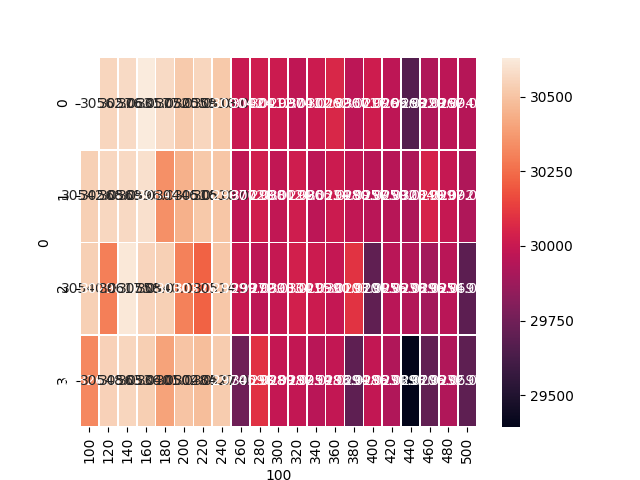
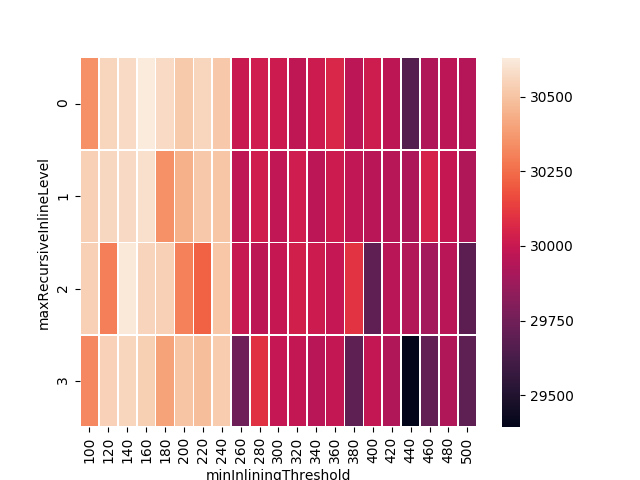
small fixes

diff --git a/scenarios/old/1-singleRun/2-inlining-threshold-recursive/2018-06-17_17-25-06/definition.py b/scenarios/old/1-singleRun/2-inlining-threshold-recursive/2018-06-17_17-25-06/definition.py
@@ -1,0 +1,91 @@
+name = "SingleRun-1-Inlining-threshold-recursive"
+
+# test different inlining sizes to search for the optimal value
+
+execution_strategy = {
+    "ignore_first_n_results": 0,
+    "sample_size": 1,
+    "type": "step_explorer",
+    "knobs": {
+        "minInliningThreshold": ([100, 500], 20),
+        "maxRecursiveInlineLevel": ([0, 3], 1)
+    }
+}
+
+def evaluator(resultState, wf):
+    return resultState["passedTime"]
+
+
+def state_initializer(state, wf):
+    state["passedTime"] = 999999999
+    return state
+
+
+def primary_data_reducer(state, newData, wf):
+    if (state["passedTime"] > newData["passedTime"]):
+        state["passedTime"] = newData["passedTime"]
+    return state
+
+
+
+currentConfiguration = {
+    "scenarioIdentifier": "SingleRun",
+    "scenarioCommand": " -t 1 -n 1 ",
+    "scalaBenchTest": "sunflow",
+    "scalaBenchSize": "default",
+    "javaDir": "./graalvm/bin/java",
+    "scalaBenchFile": "./scalabench.jar",
+    "debugEnabled": 0,
+    "codeCacheSize": "2G",
+    "heapSize": "2G",
+    "graalCompilerEnabled": 0,
+    "graalBootstrapEnabled": 0,
+    "compileHugeMethodsEnabled": 0,
+    "aggressiveOptEnabled": 0,
+    "codeFlushingEnabled": 1,
+    "counterDecayEnabled": 1,
+    "tieredCompilationEnabled": 1,  #
+    "backgroundCompilationEnabled": 0,  # default is on, but introduces multi-threading variance
+    "loopMaxUnroll": 16,  # 10-20
+    "loopMinUnroll": 4,  # 2-10
+    "loopUnrollLimit": 60,  # 40-80
+    "minInliningThreshold": 250,  # Minimum invocation count a method needs to have to be inlined
+    "inlineSmallCode": 2000,  # 500-5000
+    "maxInlineLevel": 9,  # 5-15 Maximum number of nested calls that are inlined
+    "maxInlineSize": 35,  # 10-150 Maximum bytecode size of a method to be inlined
+    "freqInlineSize": 325,  # 200-500
+    "maxRecursiveInlineLevel": 1,  # 0-3
+    "compileThreshold": 10000,  # 2000-50000
+    "onStackReplacePercentage": 933,  # 144-993  # method invocations (percentage of CompileThreshold) before compiling
+    "tier4BackEdgeThreshold": 40000,  #
+    "tier4CompileThreshold": 15000,  # 5000-50000
+    "tier4InvocationThreshold": 5000,  #
+    "tier4MinInvocationThreshold": 600,  #
+    "tier3BackEdgeThreshold": 60000,  #
+    "tier3CompileThreshold": 2000,  # 5000-50000
+    "tier3InvocationThreshold": 200,  #
+    "tier3MinInvocationThreshold": 100,  #
+}
+
+
+def setParameterHook(params):
+    currentConfiguration.update(params)
+
+
+def getResultsHook():
+    from tunr.AutoTune import startAutoTune
+    config = currentConfiguration.copy()
+    return startAutoTune(config)
+
+
+change_provider = {
+    "type": "local_hook",
+    "setParameterHook": setParameterHook,
+}
+
+primary_data_provider = {
+    "type": "local_hook",
+    "data_reducer": primary_data_reducer,
+    "getResultsHook": getResultsHook
+}
+

diff --git a/scenarios/old/1-singleRun/3-inlining-size-size/2018-06-17_18-08-50/definition.py b/scenarios/old/1-singleRun/3-inlining-size-size/2018-06-17_18-08-50/definition.py
@@ -1,0 +1,90 @@
+name = "SingleRun-1-Inlining-size-size"
+
+# test focussing on inline-size
+
+execution_strategy = {
+    "ignore_first_n_results": 0,
+    "sample_size": 1,
+    "type": "step_explorer",
+    "knobs": {
+        "freqInlineSize": ([150, 750], 50),
+        "maxInlineSize": ([10, 100], 10)
+    }
+}
+
+def evaluator(resultState, wf):
+    return resultState["passedTime"]
+
+
+def state_initializer(state, wf):
+    state["passedTime"] = 999999999
+    return state
+
+
+def primary_data_reducer(state, newData, wf):
+    if (state["passedTime"] > newData["passedTime"]):
+        state["passedTime"] = newData["passedTime"]
+    return state
+
+
+currentConfiguration = {
+    "scenarioIdentifier": "SingleRun",
+    "scenarioCommand": " -t 1 -n 1 ",
+    "scalaBenchTest": "sunflow",
+    "scalaBenchSize": "default",
+    "javaDir": "./graalvm/bin/java",
+    "scalaBenchFile": "./scalabench.jar",
+    "debugEnabled": 0,
+    "codeCacheSize": "2G",
+    "heapSize": "2G",
+    "graalCompilerEnabled": 0,
+    "graalBootstrapEnabled": 0,
+    "compileHugeMethodsEnabled": 0,
+    "aggressiveOptEnabled": 0,
+    "codeFlushingEnabled": 1,
+    "counterDecayEnabled": 1,
+    "tieredCompilationEnabled": 1,  #
+    "backgroundCompilationEnabled": 0,  # default is on, but introduces multi-threading variance
+    "loopMaxUnroll": 16,  # 10-20
+    "loopMinUnroll": 4,  # 2-10
+    "loopUnrollLimit": 60,  # 40-80
+    "minInliningThreshold": 250,  # Minimum invocation count a method needs to have to be inlined
+    "inlineSmallCode": 2000,  # 500-5000
+    "maxInlineLevel": 9,  # 5-15 Maximum number of nested calls that are inlined
+    "maxInlineSize": 35,  # 10-150 Maximum bytecode size of a method to be inlined
+    "freqInlineSize": 325,  # 200-500
+    "maxRecursiveInlineLevel": 1,  # 0-3
+    "compileThreshold": 10000,  # 2000-50000
+    "onStackReplacePercentage": 933,  # 144-993  # method invocations (percentage of CompileThreshold) before compiling
+    "tier4BackEdgeThreshold": 40000,  #
+    "tier4CompileThreshold": 15000,  # 5000-50000
+    "tier4InvocationThreshold": 5000,  #
+    "tier4MinInvocationThreshold": 600,  #
+    "tier3BackEdgeThreshold": 60000,  #
+    "tier3CompileThreshold": 2000,  # 5000-50000
+    "tier3InvocationThreshold": 200,  #
+    "tier3MinInvocationThreshold": 100,  #
+}
+
+
+def setParameterHook(params):
+    currentConfiguration.update(params)
+
+
+def getResultsHook():
+    from tunr.AutoTune import startAutoTune
+    config = currentConfiguration.copy()
+    return startAutoTune(config)
+
+
+change_provider = {
+    "type": "local_hook",
+    "setParameterHook": setParameterHook,
+}
+
+primary_data_provider = {
+    "type": "local_hook",
+    "data_reducer": primary_data_reducer,
+    "getResultsHook": getResultsHook
+}
+

diff --git a/start.py b/start.py
@@ -23,8 +23,8 @@ def loadDefinition(folder):
         # add timestamp to execution
         ts = time.time()
         wf.timeStamp = datetime.datetime.fromtimestamp(ts).strftime('%Y-%m-%d_%H-%M-%S')
-        wf.outputFolder = wf.folder + "/" + wf.timeStamp
-        os.makedirs(wf.outputFolder)
+        wf.outputFolder = wf.folder 
+        #os.makedirs(wf.outputFolder)
         return wf
     except IOError:
         error("Folder is not a valid experiment folder (does not contain definition.py)")

diff --git a/rtxlib/report.py b/rtxlib/report.py
@@ -46,7 +46,7 @@ def plot(wf):
         plot_file = plot_file_dir + '/heatmap.png'
         results = results_data_frame.pivot(*header)
         try:
-            ax = sns.heatmap(results, annot=True, fmt=".1f", linewidths=.5)
+            ax = sns.heatmap(results,  fmt=".1f", linewidths=.5)
             fig = ax.get_figure()
             fig.savefig(plot_file)
             fig.show()
